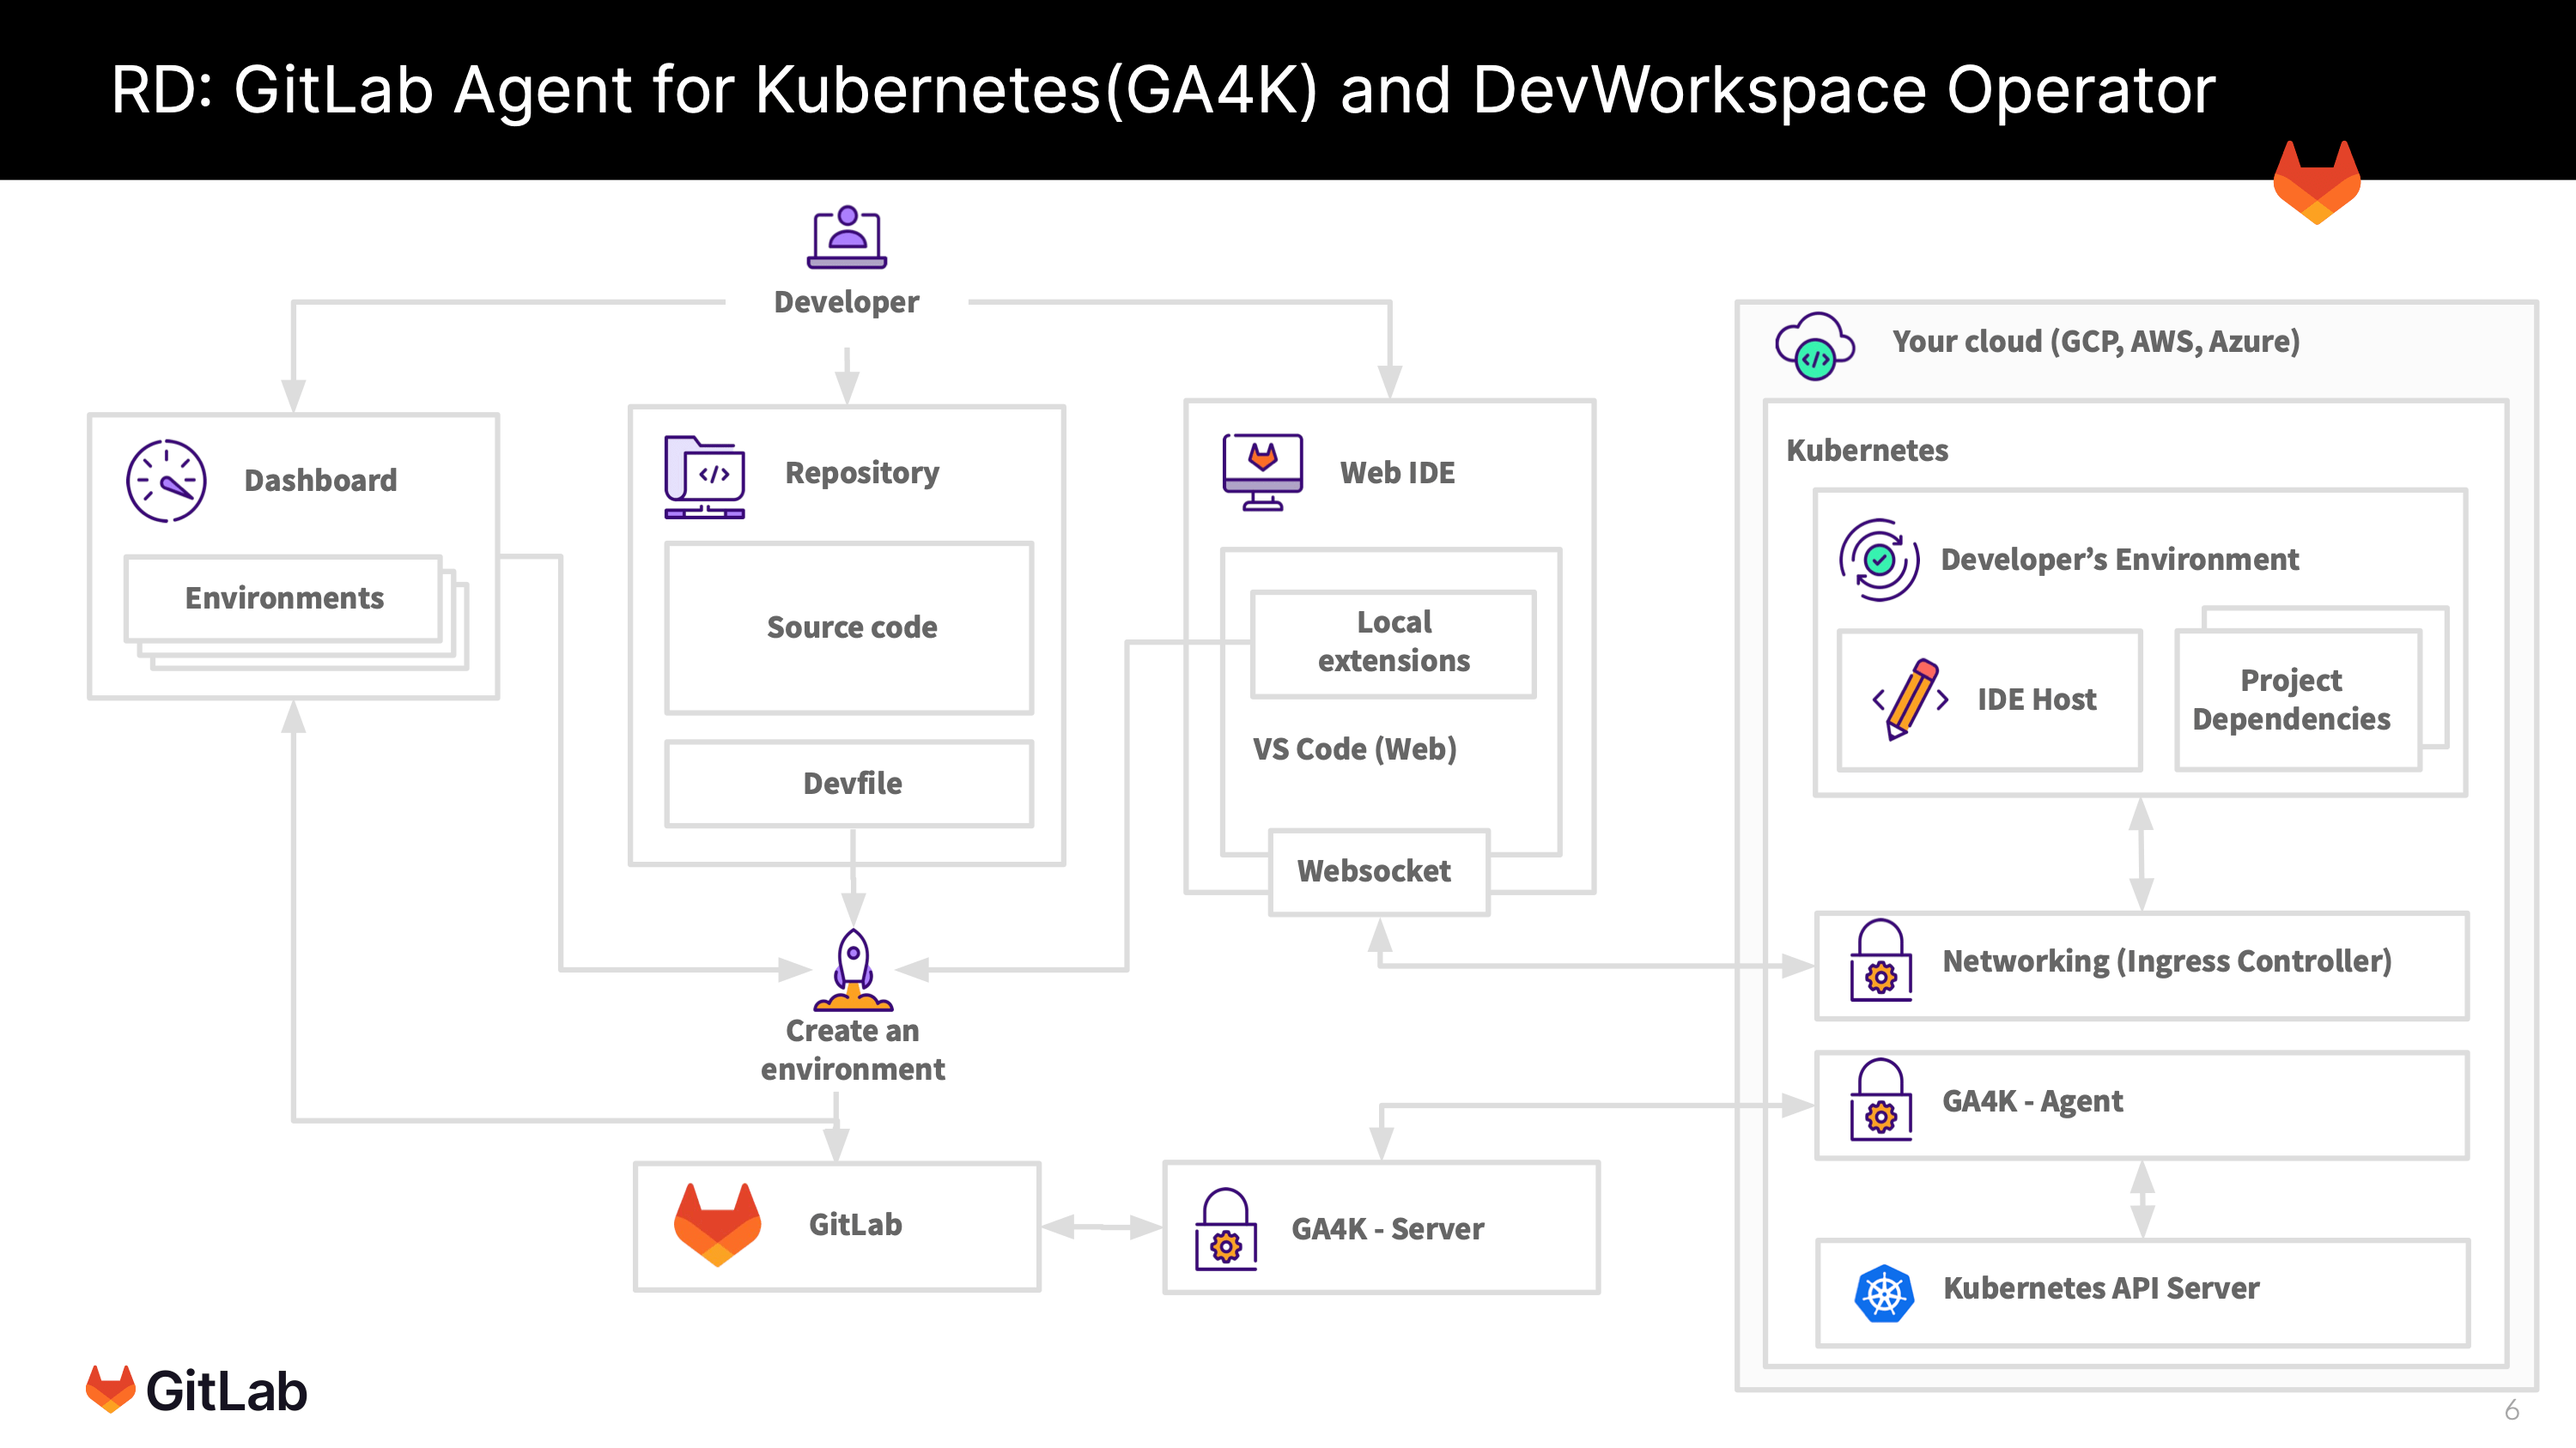
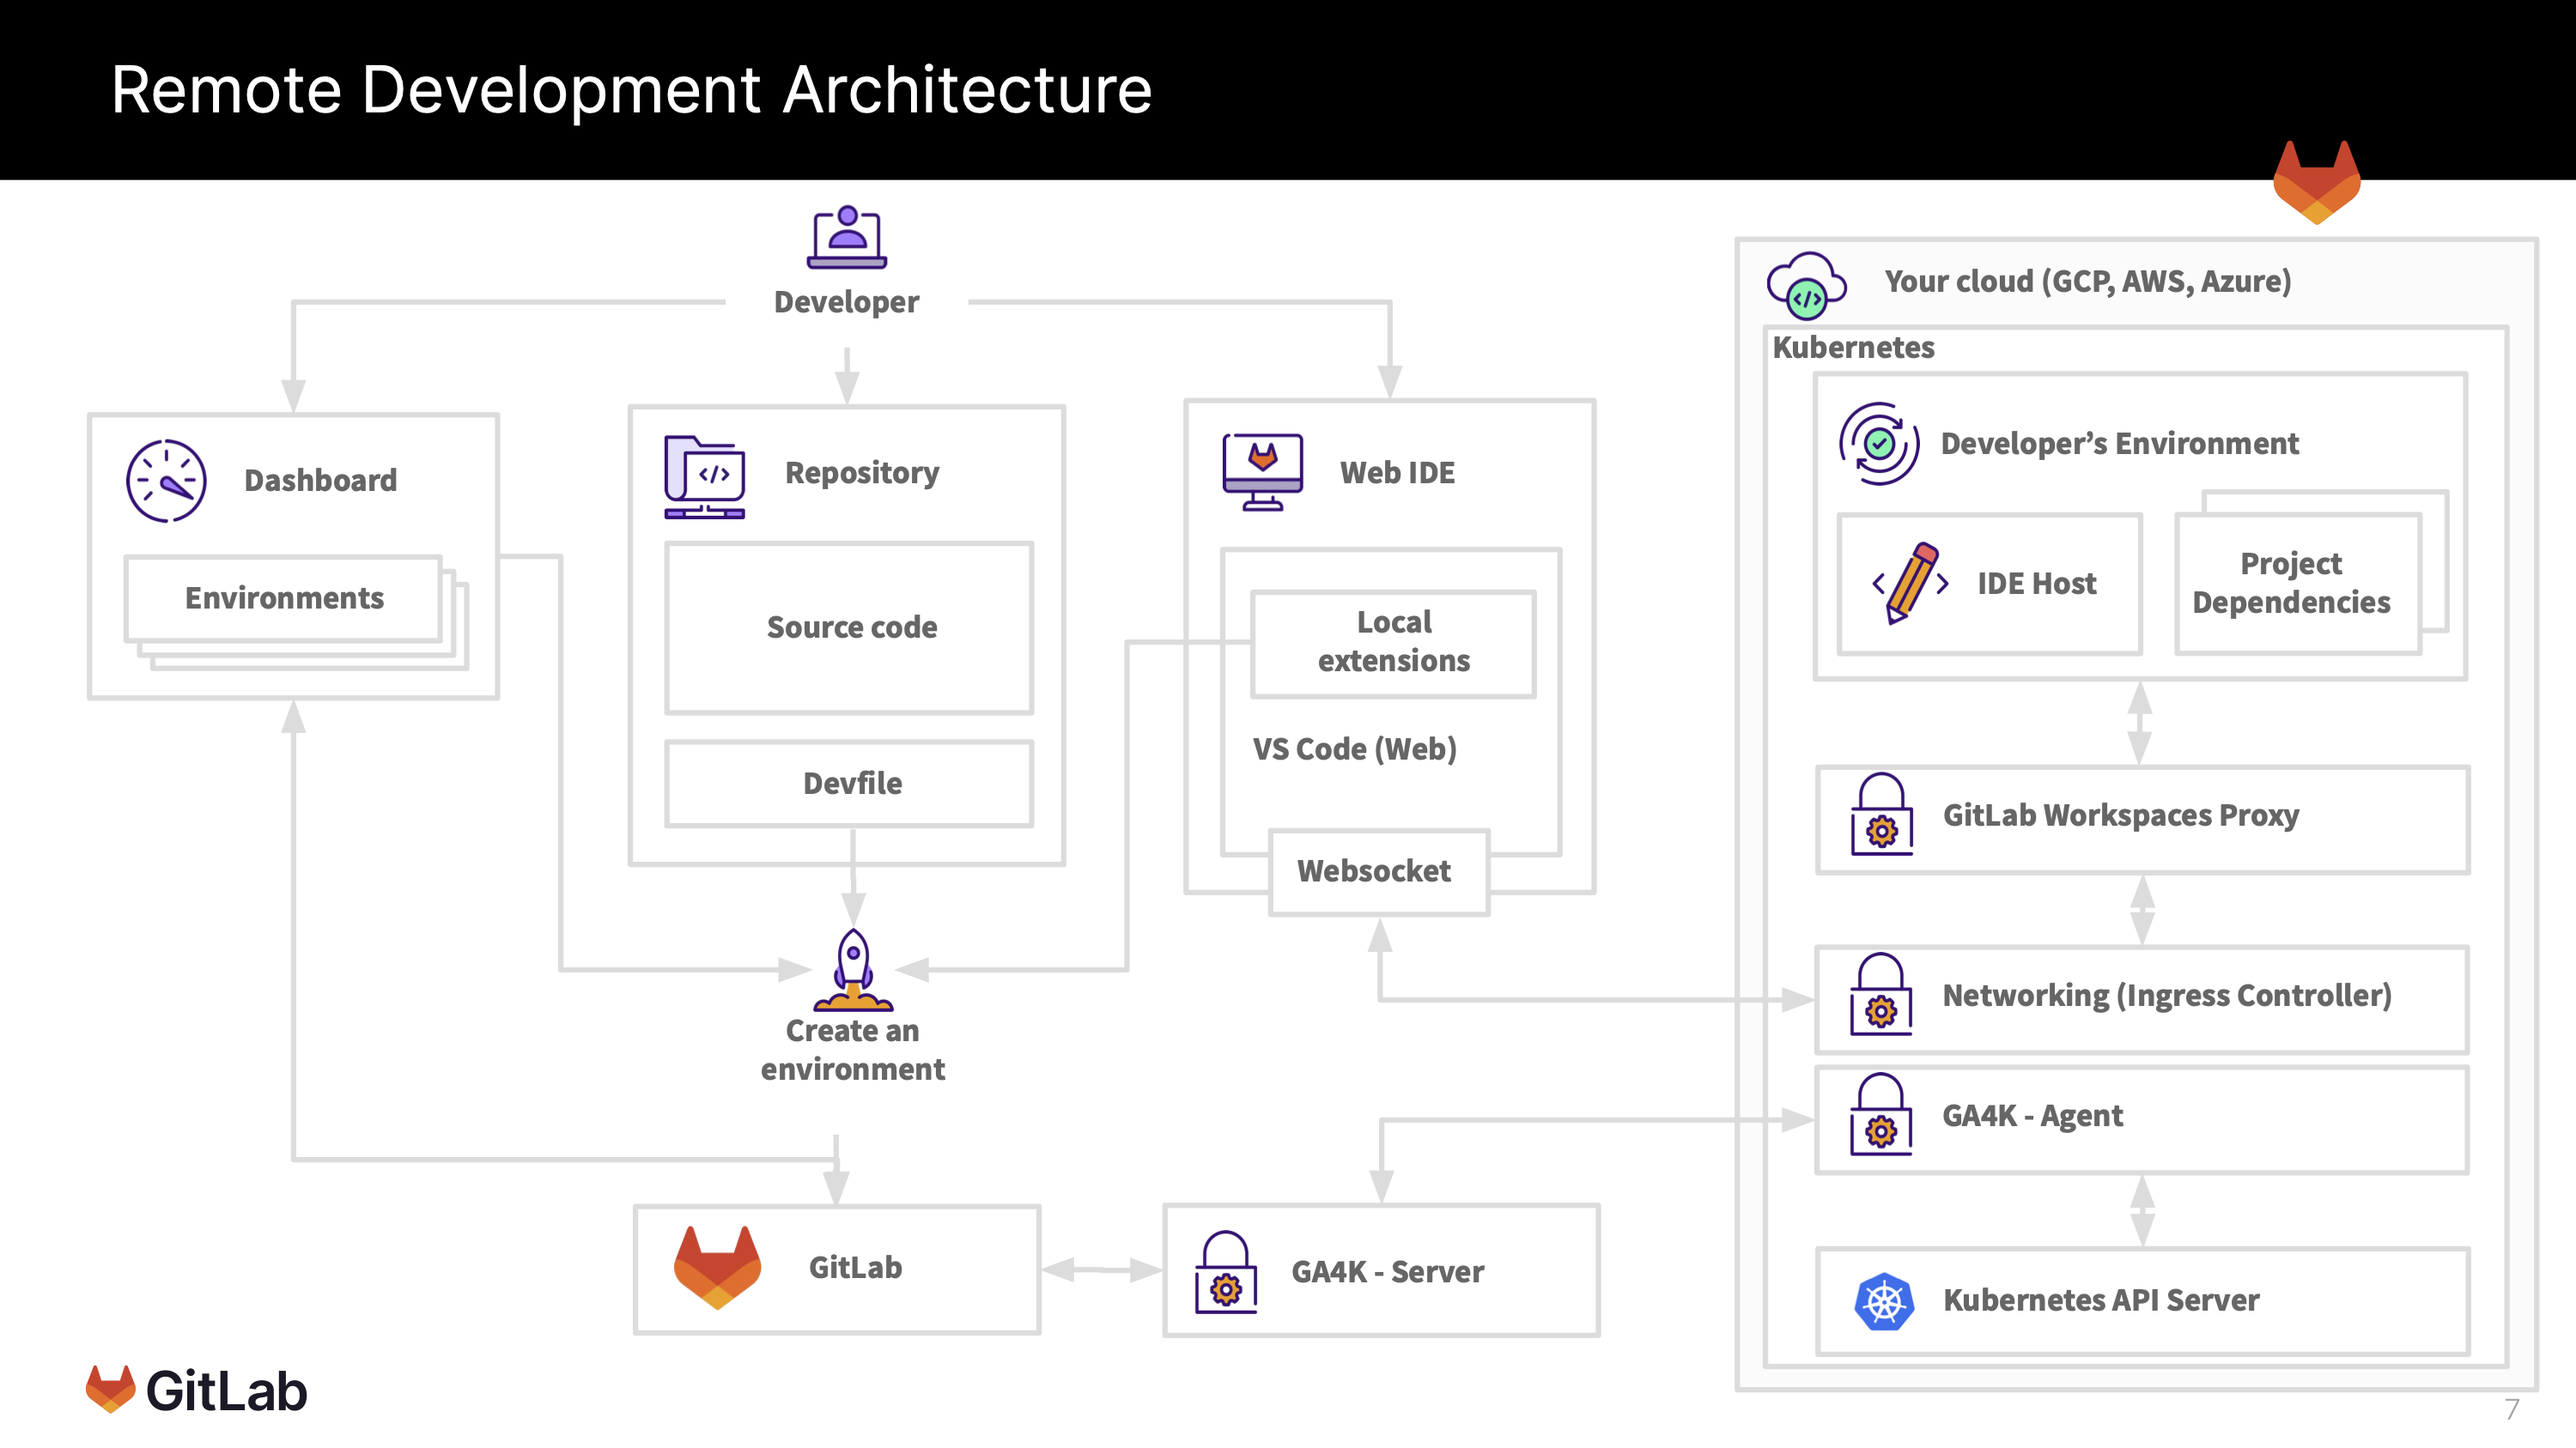
Update Remote Development Architecture Blueprint
- Remove legacy Web IDE references
- Remove high-level architecture problems to solve section
- Remove Iteration plan section
- Add details about removing DevWorkspace operator dependency
- Add reference to documentation repository
- Update user flow diagram to show gitlab-workspaces-proxy

Changed region(s): [[0.093, 0.0925, 0.992, 0.9555], [0.062, 0.0308, 0.868, 0.0925], [0.031, 0.9247, 0.062, 0.9864]]

diff --git a/doc/architecture/blueprints/remote_development/index.md b/doc/architecture/blueprints/remote_development/index.md
@@ -68,17 +68,6 @@ Container/VM-based developer machines providing all the tools and dependencies n
 - A workspace should be a combination of resources that support cloud-based development environment.
 - Workspaces are constrained by the amount of resources provided to them.
 
-### Legacy Web IDE
-
-The current production [Web IDE](../../../user/project/web_ide/index.md).
-
-#### Legacy Web IDE properties
-
-An advanced editor with commit staging that currently supports:
-
-- [Live Preview](../../../user/project/web_ide/index.md#live-preview-removed)
-- [Interactive Web Terminals](../../../user/project/web_ide/index.md#interactive-web-terminals-for-the-web-ide)
-
 ### Web IDE
 
 VS Code for web - replacement of our current legacy Web IDE.
@@ -137,145 +126,6 @@ As a zero-install development environment that runs in your browser, Remote Deve
 
 GitLab.com is only hosted within the United States of America. Organizations located in other regions have voiced demand for local SaaS offerings. BYO infrastructure helps work in conjunction with [GitLab Regions](https://gitlab.com/groups/gitlab-org/-/epics/6037) because a user's workspace may be deployed within different geographies. The ability to deploy workspaces to different geographies might also help to solve data residency and compliance problems.
 
-## High-level architecture problems to solve
-
-A number of technical issues need to be resolved to implement a stable Remote Development offering. This section will be expanded.
-
-- Who is our main persona for BYO infrastructure?
-- How do users authenticate?
-- How do we support more than one IDE?
-- How are workspaces provisioned?
-- How can workspaces implement disaster recovery capabilities?
-- If we cannot use SSH, what are the viable alternatives for establishing a secure WebSocket connection?
-- Are we running into any limitations in functionality with the Web IDE by not having it running in the container itself? For example, are we going to get code completion, linting, and language server type features to work with our approach?
-- How will our environments be provisioned, managed, created, destroyed, etc.?
-- To what extent do we need to provide the user with a UI to interact with the provisioned environments?
-- How will the files inside the workspace get live updated based on changes in the Web IDE? Are we going to use a [CRDT](https://en.wikipedia.org/wiki/Conflict-free_replicated_data_type)-like setup to patch files in a container? Are we going to generate a diff and send it though a WebSocket connection?
-
-## Iteration plan
-
-We can't ship the entire Remote Development architecture in one go - it is too large. Instead, we are adopting an iteration plan that provides value along the way.
-
-- Use GitLab Agent for Kubernetes Remote Development Module.
-- Integrate Remote Development with the UI and Web IDE.
-- Improve security and usability.
-
-### High-level approach
-
-The nuts and bolts are being worked out at [Remote Development GA4K Architecture](https://gitlab.com/gitlab-org/remote-development/gitlab-remote-development-docs/-/blob/main/doc/architecture.md) to keep a SSoT. Once we have hammered out the details, we'll replace this section with the diagram in the above repository.
-
-### Iteration 0: [GitLab Agent for Kubernetes Remote Development Module (plumbing)](https://gitlab.com/groups/gitlab-org/-/epics/9138)
-
-#### Goals
-
-- Use the [GitLab Agent](../../../user/clusters/agent/index.md) integration.
-- Create a workspace in a Kubernetes cluster based on a `devfile` in a public repository.
-- Install the IDE and dependencies as defined.
-- Report the status of the environment (via the terminal or through an endpoint).
-- Connect to an IDE in the workspace.
-
-#### Requirements
-
-- Remote environment running on a Kubernetes cluster based on a `devfile` in a repo.
-
-These are **not** part of Iteration 0:
-
-- Authentication/authorization with GitLab and a user.
-- Integration of Remote Development with the GitLab UI and Web IDE.
-- Using GA4K instead of an Ingress controller.
-
-#### Assumptions
-
-- We will use [`devworkspace-operator` v0.17.0 (latest version)](https://github.com/devfile/devworkspace-operator/releases/tag/v0.17.0). A prerequisite is [`cert-manager`](https://github.com/devfile/devworkspace-operator#with-yaml-resources).
-- We have an Ingress controller ([Ingress-NGINX](https://github.com/kubernetes/ingress-nginx)), which is accessible over the network.
-- The initial server is stubbed.
-
-#### Success criteria
-
-- Using GA4K to communicate with the Kubernetes API from the `remote_dev` agent module.
-- All calls to the Kubernetes API are done through GA4K.
-- A workspace in a Kubernetes cluster created using DevWorkspace Operator.
-
-### Iteration 1: [Rails endpoints, authentication, and authorization](https://gitlab.com/groups/gitlab-org/-/epics/9323)
-
-#### Goals
-
-- Add endpoints in Rails to accept work from a user.
-- Poll Rails for work from KAS.
-- Add authentication and authorization to the workspaces created in the Kubernetes cluster.
-- Extend the GA4K `remote_dev` agent module to accept more types of work (get details of a workspace, list workspaces for a user, etc).
-- Build an editor injector for the GitLab fork of VS Code.
-
-#### Requirements
-
-- [GitLab Agent for Kubernetes Remote Development Module (plumbing)](https://gitlab.com/groups/gitlab-org/-/epics/9138) is complete.
-
-These are **not** part of Iteration 1:
-
-- Integration of Remote Development with the GitLab UI and Web IDE.
-- Using GA4K instead of an Ingress controller.
-
-#### Assumptions
-
-- TBA
-
-#### Success criteria
-
-- Poll Rails for work from KAS.
-- Rails endpoints to create/delete/get/list workspaces.
-- All requests are correctly authenticated and authorized except where the user has requested the traffic to be public (for example, opening a server while developing and making it public).
-- A user can create a workspace, start a server on that workspace, and have that traffic become private/internal/public.
-- We are using the GitLab fork of VS Code as an editor.
-
-### Iteration 2: [Integrate Remote Development with the UI and Web IDE](https://gitlab.com/groups/gitlab-org/-/epics/9169)
-
-#### Goals
-
-- Allow users full control of their workspaces via the GitLab UI.
-
-#### Requirements
-
-- [GitLab Agent for Kubernetes Remote Development Module](https://gitlab.com/groups/gitlab-org/-/epics/9138).
-
-These are **not** part of Iteration 2:
-
-- Usability improvements
-- Security improvements
-
-#### Success criteria
-
-- Be able to list/create/delete/stop/start/restart workspaces from the UI.
-- Be able to create workspaces for the user in the Web IDE.
-- Allow the Web IDE terminal to connect to different containers in the workspace.
-- Configure DevWorkspace Operator for user-expected configuration (30-minute workspace timeout, a separate persistent volume for each workspace that is deleted when the workspace is deleted, etc.).
-
-### Iteration 3: [Improve security and usability](https://gitlab.com/groups/gitlab-org/-/epics/9170)
-
-#### Goals
-
-- Improve security and usability of our Remote Development solution.
-
-#### Requirements
-
-- [Integrate Remote Development with the UI and Web IDE](https://gitlab.com/groups/gitlab-org/-/epics/9169) is complete.
-
-#### Assumptions
-
-- We are allowing for internal feedback and closed/early customer feedback that can be iterated on.
-- We have explored or are exploring the feasibility of using GA4K with Ingresses in [Solving Ingress problems for Remote Development](https://gitlab.com/gitlab-org/gitlab/-/issues/378998).
-- We have explored or are exploring Kata containers for providing root access to workspace users in [Investigate Kata Containers / Firecracker / gVisor](https://gitlab.com/gitlab-org/gitlab/-/issues/367043).
-- We have explored or are exploring how Ingress/Egress requests cannot be misused from [resources within or outside the cluster](https://gitlab.com/gitlab-org/remote-development/gitlab-remote-development-docs/-/blob/main/doc/securing-the-workspace.md) (security hardening).
-
-#### Success criteria
-
-Add options to:
-
-- Create different classes of workspaces (1gb-2cpu, 4gb-8cpu, etc.).
-- Vertically scale up workspace resources.
-- Inject secrets from a GitLab user/group/repository.
-- Configure timeouts of workspaces at multiple levels.
-- Allow users to expose endpoints in their workspace (for example, not allow anyone in the organization to expose any endpoint publicly).
-
 ## Market analysis
 
 We have conducted a market analysis to understand the broader market and what others can offer us by way of open-source libraries, integrations, or partnership opportunities. We have broken down the effort into a set of issues where we investigate each potential competitor/pathway/partnership as a spike.
@@ -283,19 +133,25 @@ We have conducted a market analysis to understand the broader market and what ot
 - [Market analysis](https://gitlab.com/groups/gitlab-org/-/epics/8131)
 - [YouTube results](https://www.youtube.com/playlist?list=PL05JrBw4t0KrRQhnSYRNh1s1mEUypx67-)
 
-### Next Steps
+### Implementation
 
-While our spike proved fruitful, we have paused this investigation until we reach our goals in [Viable Maturity](https://gitlab.com/groups/gitlab-org/-/epics/9190).
+- [Viable Maturity Epic](https://gitlab.com/groups/gitlab-org/-/epics/9190) to track progress.
+- [Documentation](https://gitlab.com/gitlab-org/remote-development/gitlab-remote-development-docs)
+explaining the architecture and implementation details.
 
-## Che versus a custom-built solution
+## Che vs. DevWorkspace Operatoor vs. Custom-Built Solution
 
-After an investigation into using [Che](https://gitlab.com/gitlab-org/gitlab/-/issues/366052) as our backend to accelerate Remote Development, we ultimately opted to [write our own custom-built solution](https://gitlab.com/gitlab-org/gitlab/-/merge_requests/97449#note_1131215629).
+After an investigation into using [Che](https://gitlab.com/gitlab-org/gitlab/-/issues/366052) as our backend to accelerate Remote Development, we ultimately opted to [write our own custom-built solution using DevWorkspace Operator](https://gitlab.com/gitlab-org/gitlab/-/merge_requests/97449#note_1131215629).
 
 Some advantages of us opting to write our own custom-built solution are:
 
 - We can still use the core DevWorkspace Operator and build on top of it.
 - It is easier to add support for other configurations apart from `devfile` in the future if the need arises.
 - We have the ability to choose which tech stack to use (for example, instead of using Traefik which is used in Che, explore NGINX itself or use GitLab Agent for Kubernetes).
+
+After writing our own custom-built solution using DevWorkspace Operator,
+we decided to [remove the dependency on DevWorkspace Operator](https://gitlab.com/groups/gitlab-org/-/epics/9895)
+and thus the transitive dependency of Cert Manager.
 
 ## Links
 
@@ -304,7 +160,7 @@ Some advantages of us opting to write our own custom-built solution are:
 - [Minimal Maturity epic](https://gitlab.com/groups/gitlab-org/-/epics/9189)
 - [Viable Maturity epic](https://gitlab.com/groups/gitlab-org/-/epics/9190)
 - [Complete Maturity epic](https://gitlab.com/groups/gitlab-org/-/epics/9191)
-- [Bi-weekly sync](https://docs.google.com/document/d/1hWVvksIc7VzZjG-0iSlzBnLpyr-OjwBVCYMxsBB3h_E/edit#)
+- [Remote Development sync](https://docs.google.com/document/d/1hWVvksIc7VzZjG-0iSlzBnLpyr-OjwBVCYMxsBB3h_E/edit#)
 - [Market analysis and architecture](https://gitlab.com/groups/gitlab-org/-/epics/8131)
 - [GA4K Architecture](https://gitlab.com/gitlab-org/remote-development/gitlab-remote-development-docs/-/blob/main/doc/architecture.md)
 - [BYO infrastructure](https://gitlab.com/groups/gitlab-org/-/epics/8290)
